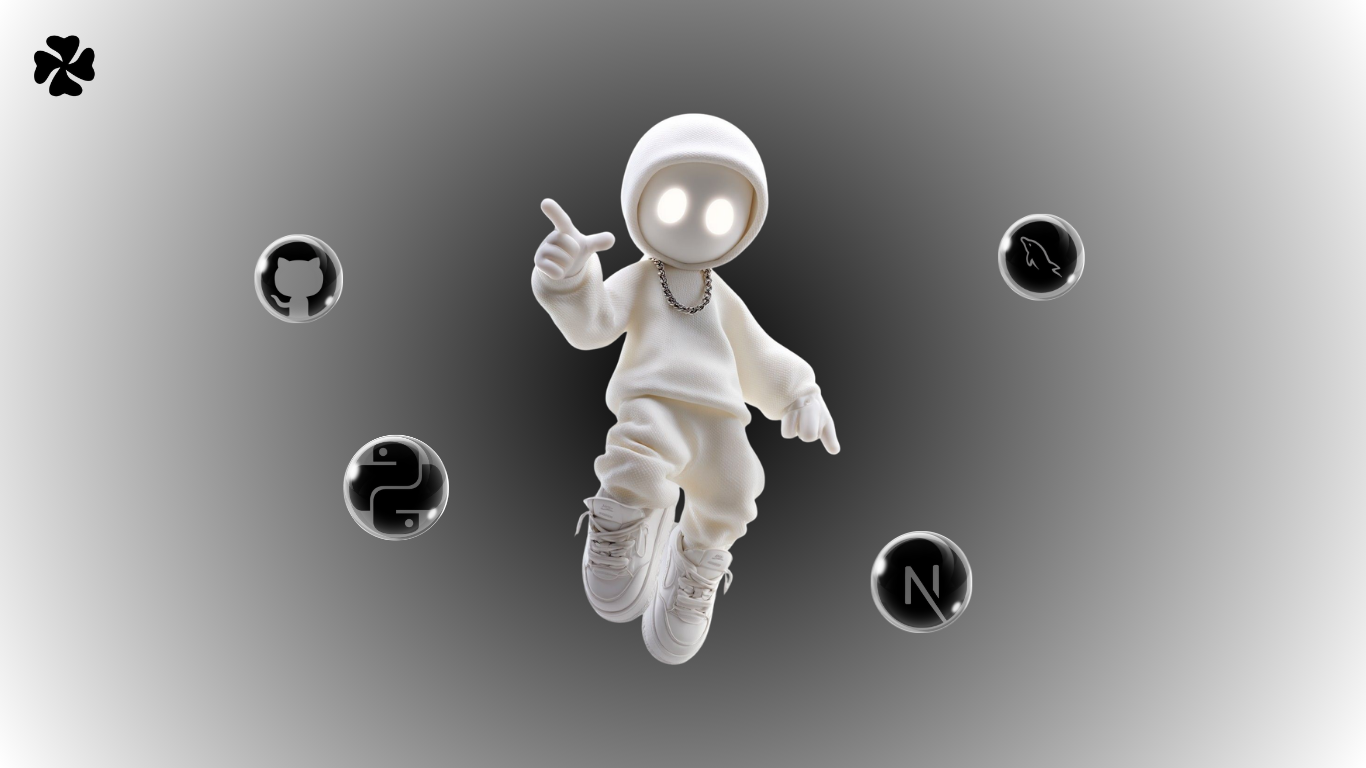
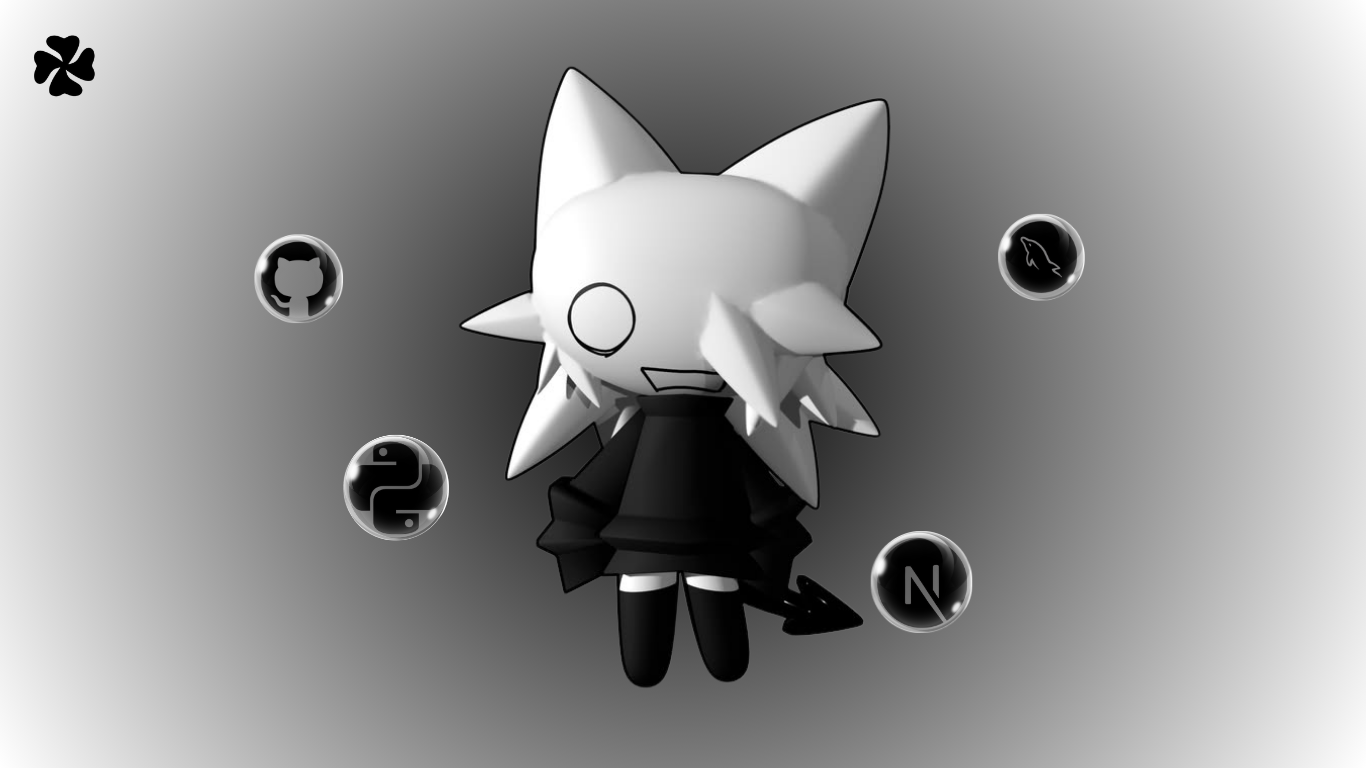
Update

Changed region(s): [[0.3382, 0.0938, 0.6457, 0.9062]]

diff --git a/src/components/ProfileSection.tsx b/src/components/ProfileSection.tsx
@@ -1,10 +1,110 @@
+"use client";
+
+import { useEffect, useRef } from "react";
+
 export default function ProfileSection() {
+  const revealImageRef = useRef<HTMLDivElement>(null);
+  const pointer = useRef({
+    x: 0,
+    y: 0,
+    targetX: 0,
+    targetY: 0,
+    radius: 0,
+    targetRadius: 0,
+    active: false,
+  });
+  const animationFrame = useRef<number | null>(null);
+
+  const animateSpotlight = () => {
+    const image = revealImageRef.current;
+    if (!image) return;
+
+    const position = pointer.current;
+    position.x += (position.targetX - position.x) * 0.18;
+    position.y += (position.targetY - position.y) * 0.18;
+    position.radius += (position.targetRadius - position.radius) * 0.14;
+
+    const radius = Math.max(0, position.radius);
+    const mask = `radial-gradient(circle ${radius}px at ${position.x}px ${position.y}px, transparent 0%, rgba(0, 0, 0, 0.18) 62%, black 100%)`;
+    image.style.maskImage = mask;
+    image.style.webkitMaskImage = mask;
+
+    const isMoving =
+      Math.abs(position.targetX - position.x) > 0.5 ||
+      Math.abs(position.targetY - position.y) > 0.5 ||
+      Math.abs(position.targetRadius - position.radius) > 0.5;
+
+    if (isMoving) {
+      animationFrame.current = requestAnimationFrame(animateSpotlight);
+    } else {
+      animationFrame.current = null;
+      if (!position.active) {
+        image.style.maskImage = "none";
+        image.style.webkitMaskImage = "none";
+      }
+    }
+  };
+
+  const scheduleSpotlight = () => {
+    if (animationFrame.current === null) {
+      animationFrame.current = requestAnimationFrame(animateSpotlight);
+    }
+  };
+
+  const moveSpotlight = (event: React.PointerEvent<HTMLElement>) => {
+    if (event.pointerType === "touch") return;
+
+    const bounds = event.currentTarget.getBoundingClientRect();
+    const position = pointer.current;
+    position.targetX = event.clientX - bounds.left;
+    position.targetY = event.clientY - bounds.top;
+    position.targetRadius = 230;
+    position.active = true;
+    scheduleSpotlight();
+  };
+
+  const hideSpotlight = () => {
+    pointer.current.targetRadius = 0;
+    pointer.current.active = false;
+    scheduleSpotlight();
+  };
+
+  useEffect(
+    () => () => {
+      if (animationFrame.current !== null) {
+        cancelAnimationFrame(animationFrame.current);
+      }
+    },
+    [],
+  );
+
   return (
     <section
       id="profile"
-      className="relative flex min-h-screen items-center justify-center px-4 py-20 text-center sm:px-8"
+      className="relative isolate flex min-h-screen items-center justify-center overflow-hidden px-4 py-20 text-center sm:px-8"
+      onPointerEnter={moveSpotlight}
+      onPointerMove={moveSpotlight}
+      onPointerLeave={hideSpotlight}
     >
-      <div className="w-full max-w-5xl">
+      <div
+        aria-hidden="true"
+        className="profile-image-base pointer-events-none absolute inset-0"
+      />
+      <div
+        ref={revealImageRef}
+        aria-hidden="true"
+        className="profile-image-reveal pointer-events-none absolute inset-0"
+      />
+      <div
+        aria-hidden="true"
+        className="pointer-events-none absolute inset-x-0 top-0 h-40 bg-linear-to-b from-(--color-bg) to-transparent"
+      />
+      <div
+        aria-hidden="true"
+        className="pointer-events-none absolute inset-x-0 bottom-0 h-48 bg-linear-to-b from-transparent to-(--color-bg)"
+      />
+
+      <div className="relative z-10 w-full max-w-5xl">
         {/* Decorative dot */}
         <div
           className="mx-auto mb-8 h-2.5 w-2.5 rounded-full"
@@ -27,7 +127,7 @@ export default function ProfileSection() {
           className="mx-auto mb-12 max-w-lg text-[0.95rem] font-light leading-relaxed sm:text-base"
           style={{
             fontFamily: "var(--font-body)",
-            color: "var(--color-text-secondary)",
+            color: "#000000",
             letterSpacing: "0.01em",
           }}
         >

diff --git a/src/components/Accordion.tsx b/src/components/Accordion.tsx
@@ -8,6 +8,21 @@ interface CardItem {
   href: string;
 }
 
+function CloverMark({ className = "" }: { className?: string }) {
+  return (
+    <svg
+      aria-hidden="true"
+      viewBox="0 0 40 40"
+      className={className}
+      fill="currentColor"
+    >
+      <path d="M19.98 18.37C14.9 14.74 11.06 11.56 12.7 7.28c1.32-4.29 7.69-4.34 8.28 1.04.31 3.42-.48 6.6-1 10.05Zm1.65 1.48c3.42-5.09 6.6-8.93 10.88-7.29 4.29 1.32 4.34 7.69-1.04 8.28-3.42.31-6.6-.48-10.05-.99Zm-1.6 1.67c5.08 3.42 8.92 6.6 7.28 10.88-1.32 4.29-7.69 4.34-8.28-1.04-.31-3.42.48-6.6 1-10.05Zm-1.67-1.61c-3.42 5.08-6.6 8.92-10.88 7.28-4.29-1.32-4.34-7.69 1.04-8.28 3.42-.31 6.6.48 10.05 1Z" />
+      <path d="M19.7 21.2c-2.57 4.24-4.11 7.84-2.9 11.12.44 1.2 1.56 1.89 2.77 1.89s2.34-.69 2.78-1.89c1.2-3.28-.34-6.88-2.91-11.12Z" />
+      <circle cx="20" cy="20" r="2.6" />
+    </svg>
+  );
+}
+
 const cards: CardItem[] = [
   {
     id: 1,
@@ -51,22 +66,21 @@ export default function ExpandCards() {
           <img
             src={card.image}
             alt=""
-            className="absolute inset-0 h-full w-full object-cover opacity-30 transition duration-500 group-hover:scale-100 group-hover:opacity-70"
+            className="absolute inset-0 h-full w-full scale-105 object-cover opacity-0 transition duration-500 group-hover:scale-100 group-hover:opacity-100 group-focus-visible:scale-100 group-focus-visible:opacity-100"
           />
 
-          <span className="absolute inset-0 flex items-center justify-center transition-opacity group-hover:opacity-0 group-focus-visible:opacity-0">
+          <span className="absolute inset-0 flex items-center justify-center transition-opacity duration-300 group-hover:opacity-0 group-focus-visible:opacity-0">
             <span
-              className="flex h-12 w-12 items-center justify-center rounded-full text-base font-semibold sm:h-14 sm:w-14 sm:text-lg"
+              className="flex h-12 w-12 items-center justify-center rounded-full sm:h-14 sm:w-14"
               style={{
                 backgroundColor:
                   "color-mix(in srgb, var(--color-card-bg) 65%, transparent)",
                 color: "var(--color-text)",
-                fontFamily: "var(--font-body)",
                 backdropFilter: "blur(12px)",
                 border: "1px solid var(--color-border)",
               }}
             >
-              {card.id}
+              <CloverMark className="h-6 w-6 transition-transform duration-500 ease-out group-hover:rotate-180 sm:h-7 sm:w-7" />
             </span>
           </span>
 
@@ -80,17 +94,16 @@ export default function ExpandCards() {
           >
             <span className="flex min-w-0 items-end gap-4">
               <span
-                className="flex h-12 w-12 shrink-0 items-center justify-center rounded-full text-base font-semibold sm:h-14 sm:w-14 sm:text-lg"
+                className="flex h-12 w-12 shrink-0 items-center justify-center rounded-full sm:h-14 sm:w-14"
                 style={{
                   backgroundColor:
                     "color-mix(in srgb, var(--color-card-bg) 65%, transparent)",
                   color: "var(--color-text)",
-                  fontFamily: "var(--font-body)",
                   border: "1px solid var(--color-border)",
                 }}
                 aria-hidden="true"
               >
-                {card.id}
+                <CloverMark className="h-6 w-6 sm:h-7 sm:w-7" />
               </span>
               <span className="min-w-0 overflow-hidden">
                 <span

diff --git a/src/components/ExperienceSection.tsx b/src/components/ExperienceSection.tsx
@@ -176,14 +176,12 @@ export default function ExperienceSection() {
                       style={{ color: "var(--color-text-secondary)" }}
                     >
                       {experience.highlights.map((highlight) => (
-                        <li key={highlight} className="relative pl-4">
+                        <li key={highlight} className="relative pl-5">
                           <span
                             aria-hidden="true"
-                            className="absolute left-0"
-                            style={{ color: "var(--color-text)" }}
-                          >
-                            —
-                          </span>
+                            className="absolute left-0 top-[0.55em] h-1.5 w-1.5 rounded-full"
+                            style={{ backgroundColor: "var(--color-text)" }}
+                          />
                           {highlight}
                         </li>
                       ))}

diff --git a/src/app/globals.css b/src/app/globals.css
@@ -143,6 +143,30 @@ section {
   z-index: 2;
 }
 
+.profile-image-base,
+.profile-image-reveal {
+  background-position: center;
+  background-size: cover;
+}
+
+.profile-image-base {
+  background-image: url("/images/ver3.jpg");
+}
+
+.profile-image-reveal {
+  background-image: url("/images/ver2.jpg");
+}
+
+[data-theme="dark"] .profile-image-base {
+  background-image: url("/images/ver2.jpg");
+  filter: brightness(0.48) saturate(0.78);
+}
+
+[data-theme="dark"] .profile-image-reveal {
+  background-image: url("/images/ver3.jpg");
+  filter: brightness(0.48) saturate(0.78);
+}
+
 /* ── Card animation ── */
 @keyframes fadeSlideUp {
   from {

diff --git a/src/components/SkillsetSection.tsx b/src/components/SkillsetSection.tsx
@@ -21,11 +21,11 @@ const skillGroups = [
   },
   {
     title: "Business tools",
-    skills: ["Power Apps", "Power Automate", "SharePoint", "Microsoft Excel"],
+    skills: ["Power Apps", "Power Automate", "Power BI", "SharePoint", "Microsoft Excel", "Microsoft Teams"],
   },
   {
     title: "Creative",
-    skills: ["Figma", "Visual design", "Video editing"],
+    skills: ["Figma", "Visual design", "Video editing", "Blender", "Adobe Illustrator", "Adobe After Effects"],
   },
 ];
 

diff --git a/src/components/Navbar.tsx b/src/components/Navbar.tsx
@@ -46,7 +46,7 @@ export default function Navbar() {
           onClick={(e) => handleClick(e, item.href)}
           className="group relative text-xs tracking-[0.12em] transition-all duration-300 sm:text-base sm:tracking-[0.25em]"
           style={{
-            fontFamily: "var(--font-heading)",
+            fontFamily: "var(--font-body)",
             color: "var(--color-text)",
             textDecoration: "none",
           }}

diff --git a/src/global.d.ts b/src/global.d.ts
@@ -1,0 +1,1 @@
+declare module "*.css";
